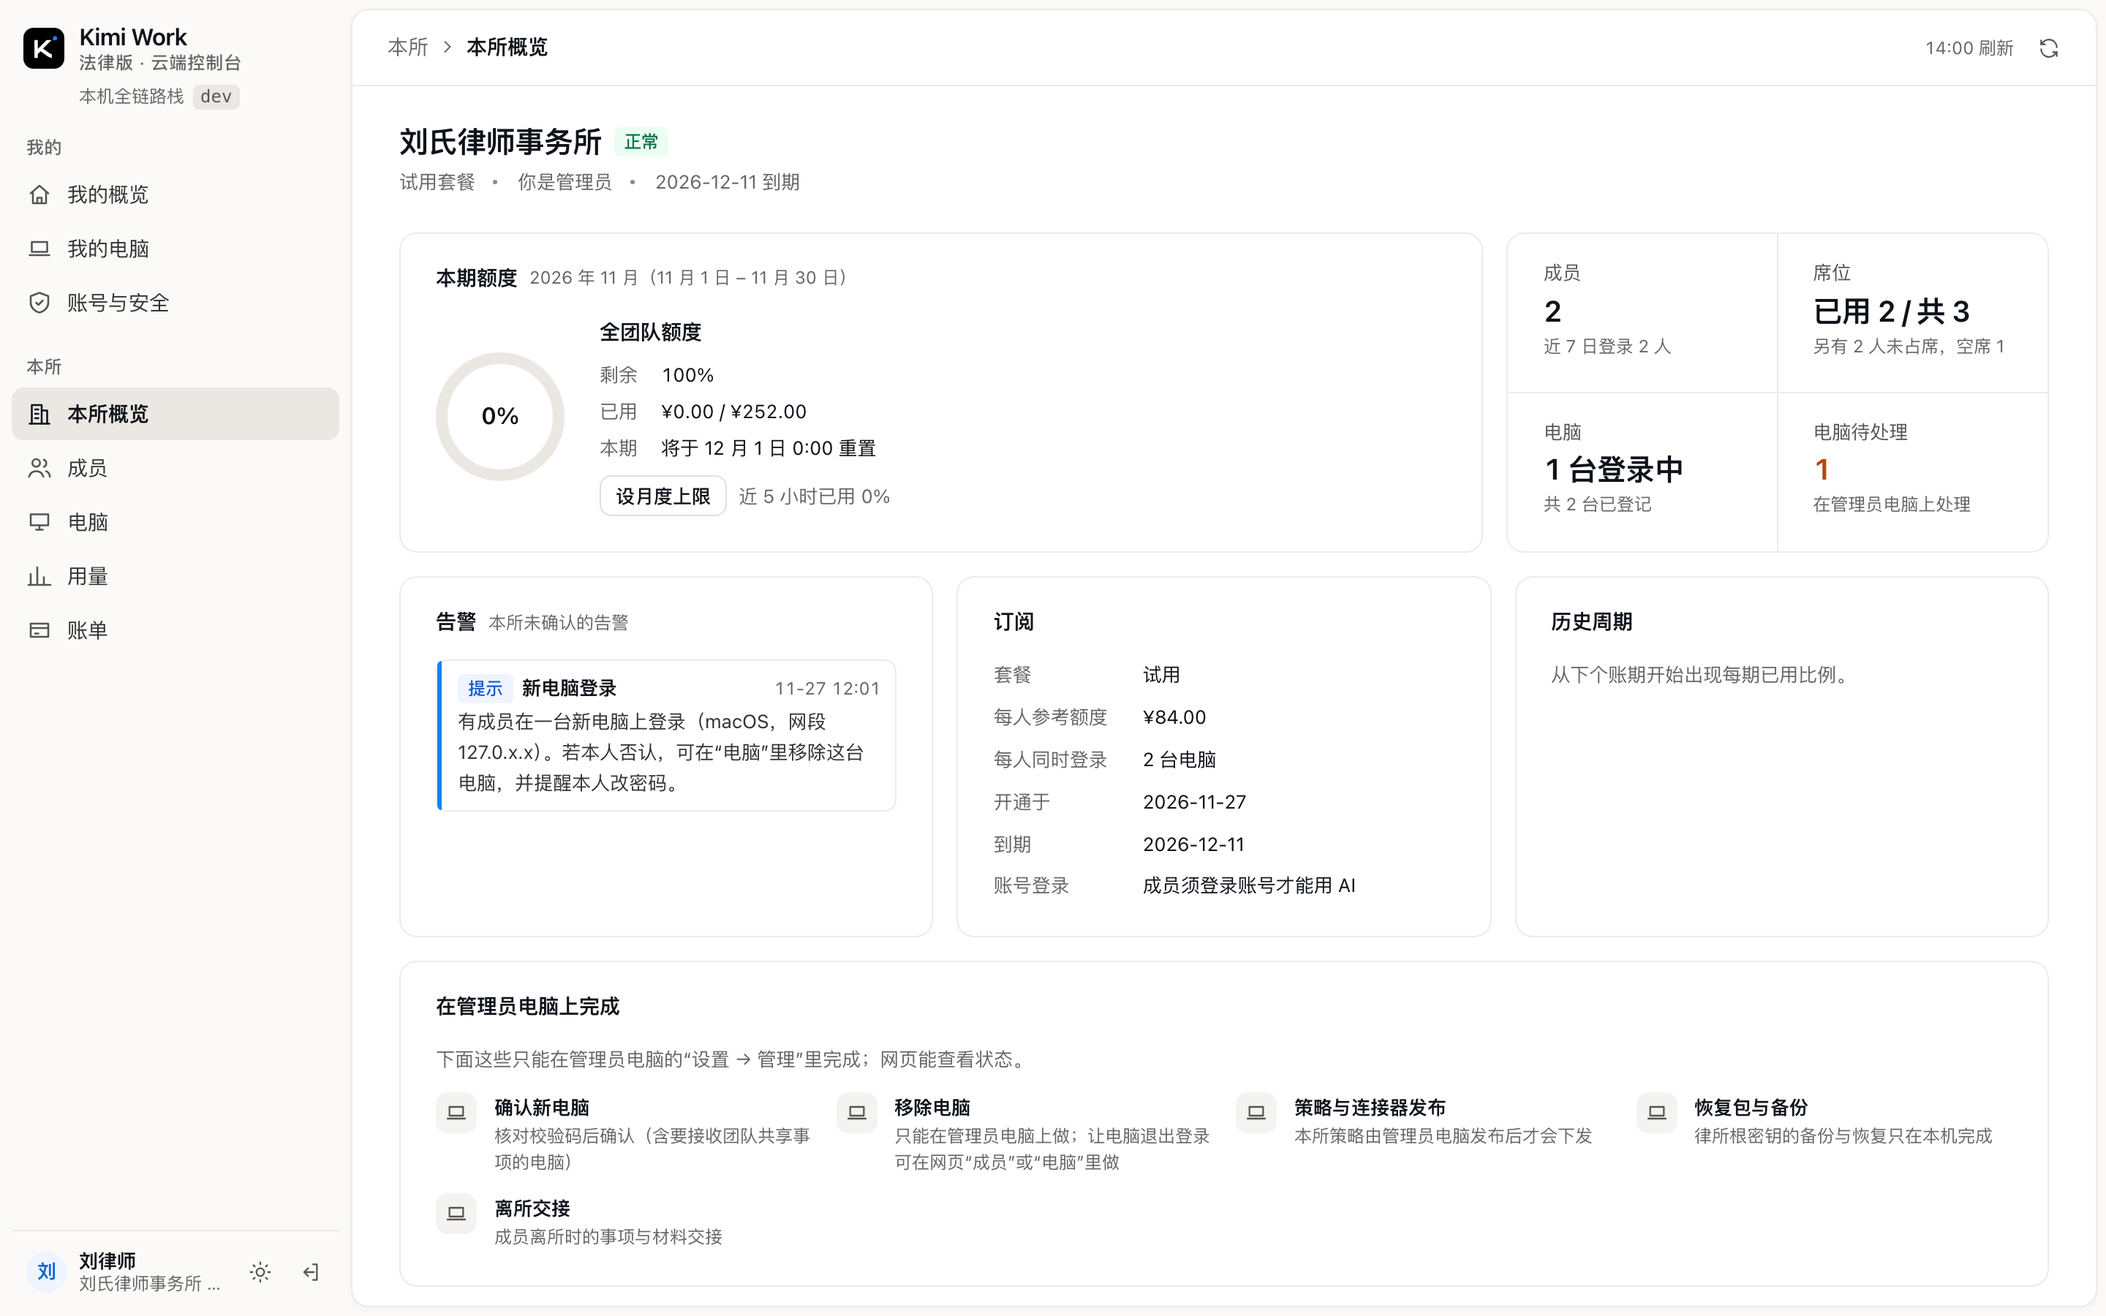
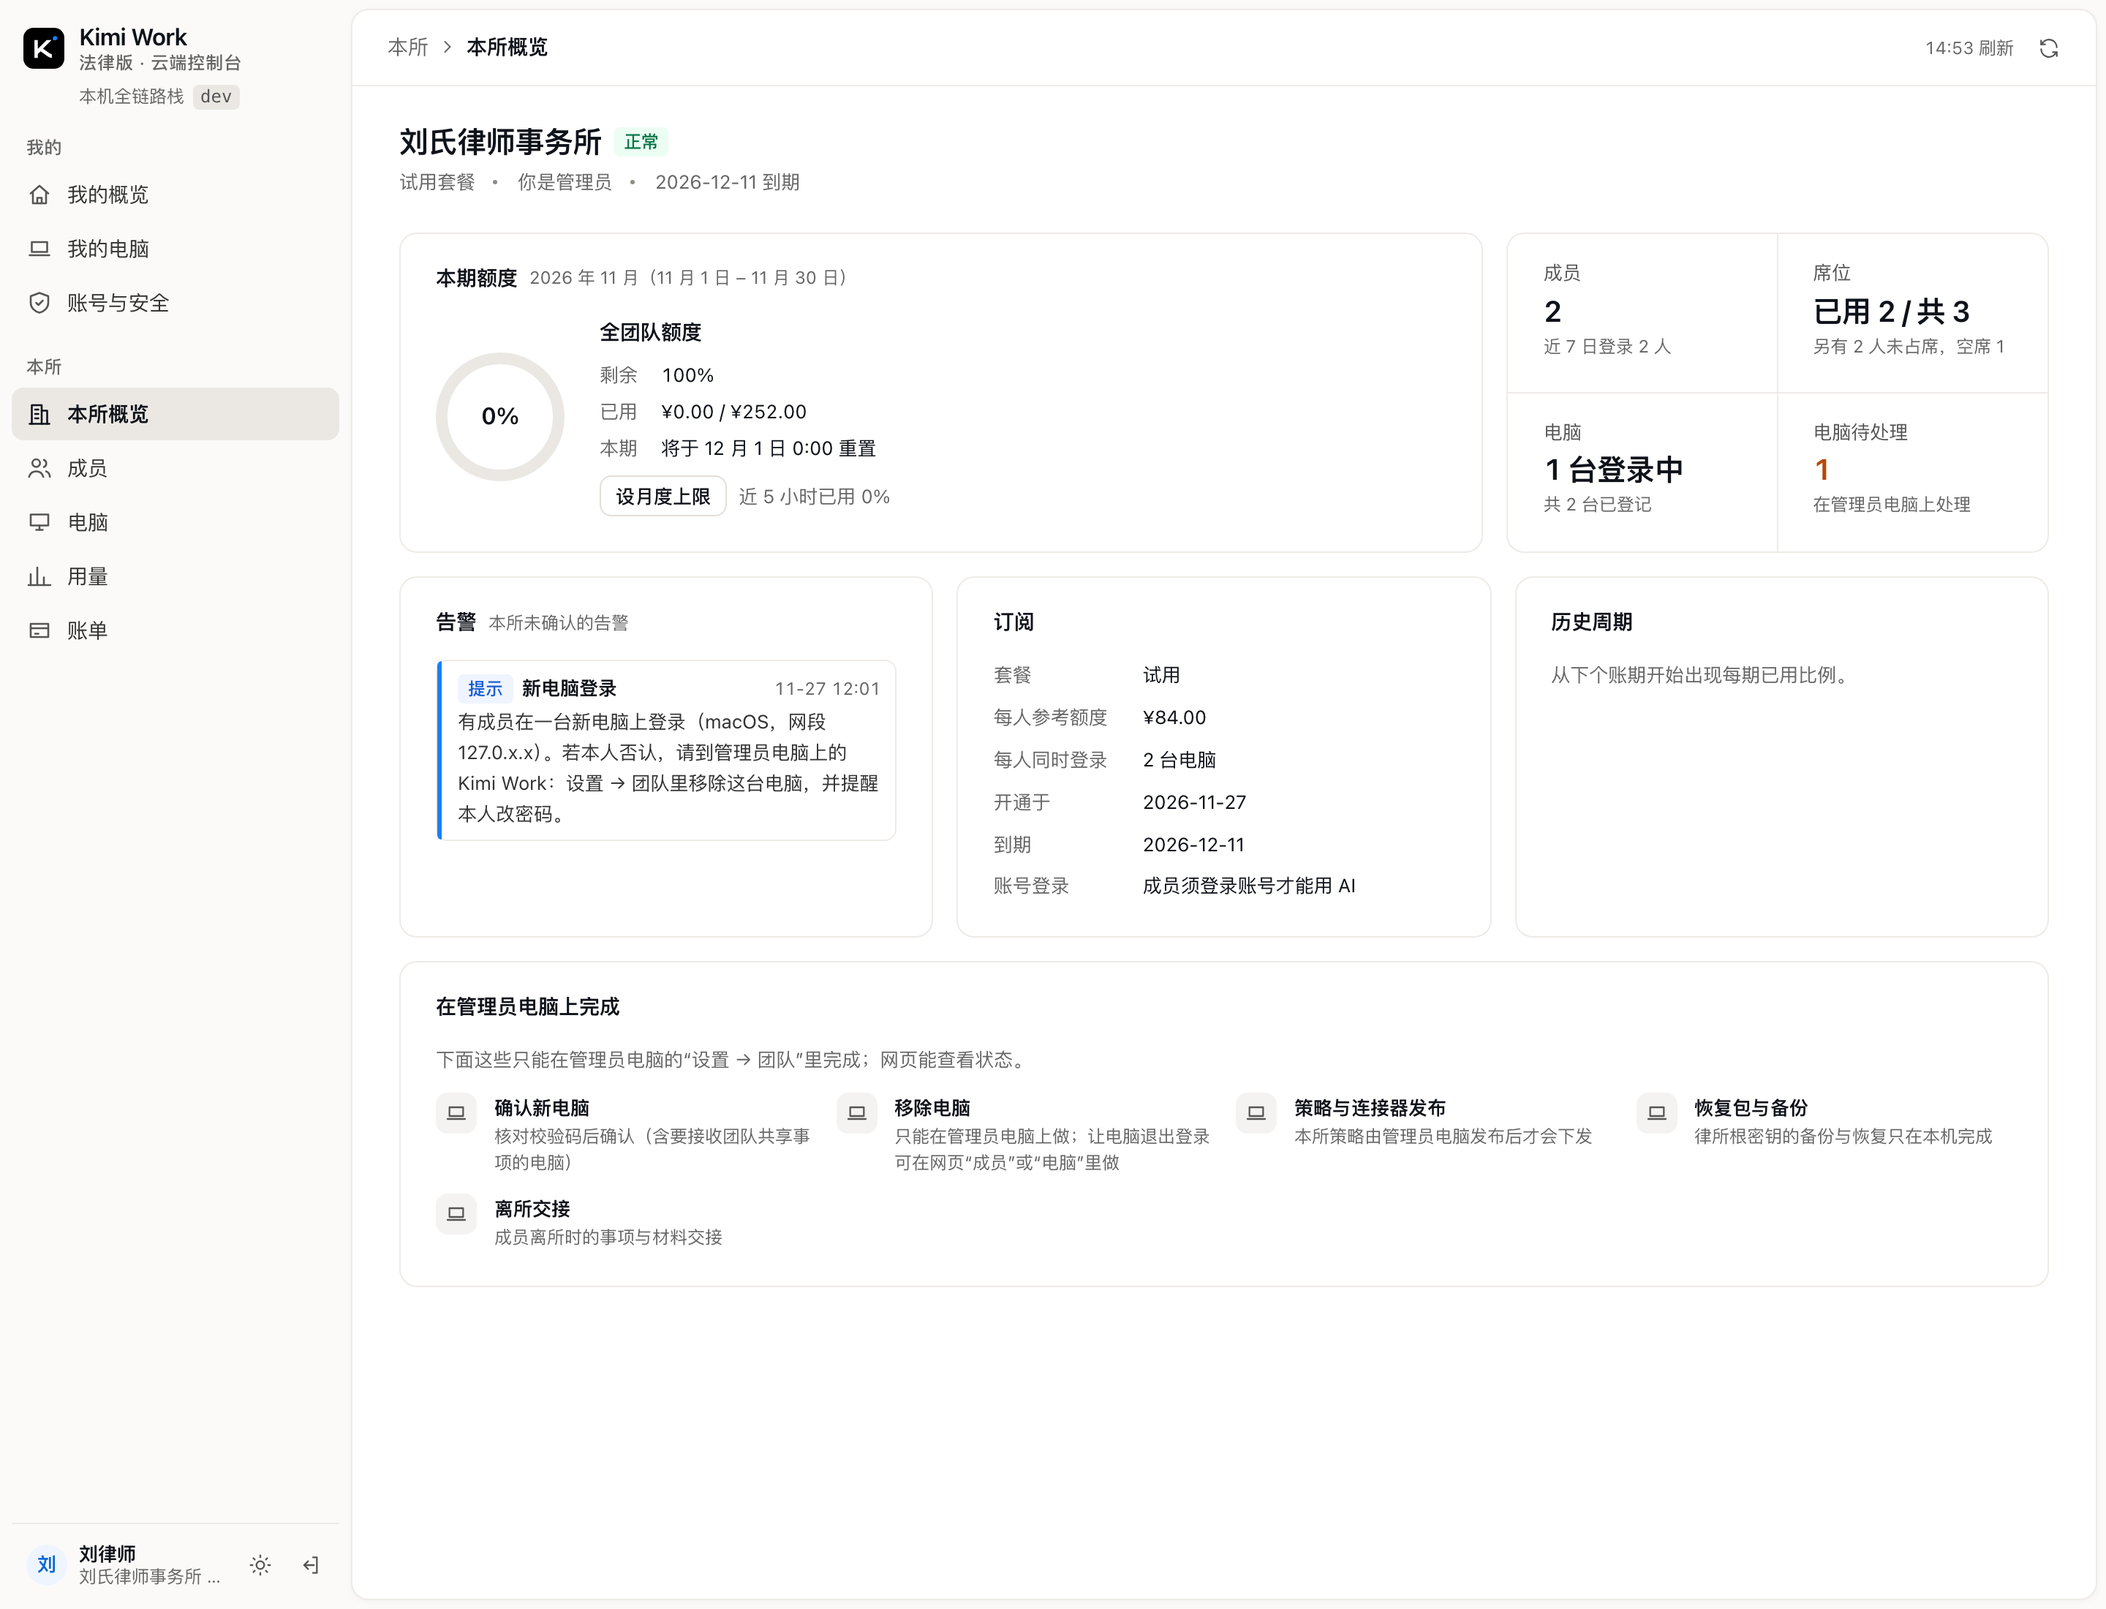
fix(console): 第 72 批控制台第三轮复评后两处口径——桌面端路径统一为“设置 → 团队（→ 电脑待确认）”；团队管理员视角的新电脑告警写明到管理员电脑上移除；重拍 03、13、21、22、45 浅深两套

diff --git a/platform/apps/console/pages/firm-overview.js b/platform/apps/console/pages/firm-overview.js
@@ -39,7 +39,7 @@ function draw(head, box, d, reload) {
       lead: h("p", {}, "全所本期用量到这个比例后暂停调用 AI（本机流程不受影响），下一期自动恢复。"),
       fields: [{ name: "pct", label: "上限（占本期总额度的 %）", type: "number", min: 1, max: 100, value: capPct ?? "", hint: "1–100；留空 = 不设上限" }],
       validate: (v) => (v.pct !== null && !(Number.isInteger(v.pct) && v.pct >= 1 && v.pct <= 100) ? "请填 1–100 的整数，或留空" : null),
-      consequences: ["立即生效：当前已用超过新上限时，全所马上暂停调用 AI；", "客户端“设置 → 管理”里的月度上限是同一个值，会同步改变。"],
+      consequences: ["立即生效：当前已用超过新上限时，全所马上暂停调用 AI；", "客户端“设置 → 团队”里的月度上限是同一个值，会同步改变。"],
       confirmLabel: "保存上限",
       run: (v) => api.put("/v1/firm/cap", { monthly_cap_pct: v.pct ?? null }),
     });
@@ -55,7 +55,7 @@ function draw(head, box, d, reload) {
     clear(todoSub, n > 0 ? "在管理员电脑上处理" : "没有待处理的电脑");
     if (n > 0) todoStat.classList.add("tone-warn");
   }, () => {});
-  const joinBanner = h("div", { class: "banner warn soft" }, icon("info"), h("span", { class: "spacer" }, `有 ${pending} 台新电脑等你批准：请在管理员电脑的“设置 → 管理”里核对校验码与本人一致后再批准。`), btn("查看成员", () => go("firm/members"), { size: "sm" }));
+  const joinBanner = h("div", { class: "banner warn soft" }, icon("info"), h("span", { class: "spacer" }, `有 ${pending} 台新电脑等你批准：请在管理员电脑的“设置 → 团队 → 电脑待确认”里核对校验码与本人一致后再批准。`), btn("查看成员", () => go("firm/members"), { size: "sm" }));
   const seatSub = h("span", {}, "能用 AI 的名额");
   // 评审第二轮（K14）：成员数与 7 日活跃只算当前有效成员（已移出 / 停用的不算），拿到成员清单后改写
   const memVal = h("span", {}, fmt.int(c.members));
@@ -69,7 +69,7 @@ function draw(head, box, d, reload) {
     const since = Date.now() - 7 * 86_400_000;
     clear(memVal, fmt.int(act.length));
     clear(memSub, `近 7 日登录 ${fmt.int(act.filter((x) => x.last_login_at && Date.parse(x.last_login_at) >= since).length)} 人`);
-    if (p.length) clear(joinBanner.querySelector(".spacer"), p.map((x, i) => [i ? "、" : null, h("b", {}, `${x.member_name ?? "成员"}的新电脑`), `（申请于 ${fmt.time(x.created_at)}）`]), "等你批准：请在管理员电脑的“设置 → 管理”里核对校验码与本人一致后再批准。");
+    if (p.length) clear(joinBanner.querySelector(".spacer"), p.map((x, i) => [i ? "、" : null, h("b", {}, `${x.member_name ?? "成员"}的新电脑`), `（申请于 ${fmt.time(x.created_at)}）`]), "等你批准：请在管理员电脑的“设置 → 团队 → 电脑待确认”里核对校验码与本人一致后再批准。");
     const n = (m.members ?? []).filter((x) => x.seat_used === false).length;
     const sn = seatNote(n, seats.total, seats.used);
     // 评审（K14 第 3 条）：席位格说明缩成一行，细节放悬停
@@ -127,6 +127,6 @@ function draw(head, box, d, reload) {
       ),
       (q.history ?? []).length ? panel("历史周期", periodBars(q.history ?? []), { sub: "每期已用比例" }) : panel("历史周期", h("p", { class: "muted small" }, "从下个账期开始出现每期已用比例。")),
     ].filter(Boolean)),
-    panel("在管理员电脑上完成", h("div", { class: "stack-sm" }, h("p", { class: "muted small" }, "下面这些只能在管理员电脑的“设置 → 管理”里完成；网页能查看状态。"), clientOnlyList(CLIENT_ONLY), pending > 0 ? btn(`查看待批准的 ${pending} 个申请`, () => go("firm/members"), { size: "sm" }) : null)),
+    panel("在管理员电脑上完成", h("div", { class: "stack-sm" }, h("p", { class: "muted small" }, "下面这些只能在管理员电脑的“设置 → 团队”里完成；网页能查看状态。"), clientOnlyList(CLIENT_ONLY), pending > 0 ? btn(`查看待批准的 ${pending} 个申请`, () => go("firm/members"), { size: "sm" }) : null)),
   );
 }

diff --git a/platform/apps/console/pages/firm-members.js b/platform/apps/console/pages/firm-members.js
@@ -57,7 +57,7 @@ export function render(page) {
     clear(box);
     if (pending.length)
       box.append(
-        h("div", { class: "banner warn soft" }, icon("info"), h("span", { class: "spacer" }, pending.map((p, i) => [i ? "、" : null, h("b", {}, `${p.member_name ?? "成员"}的新电脑`), `（申请于 ${fmt.time(p.created_at)}）`]), "等你确认：请在管理员电脑的“设置 → 管理”里核对校验码与本人一致后再批准。")),
+        h("div", { class: "banner warn soft" }, icon("info"), h("span", { class: "spacer" }, pending.map((p, i) => [i ? "、" : null, h("b", {}, `${p.member_name ?? "成员"}的新电脑`), `（申请于 ${fmt.time(p.created_at)}）`]), "等你确认：请在管理员电脑的“设置 → 团队 → 电脑待确认”里核对校验码与本人一致后再批准。")),
       );
     const rows = members.filter((m) => f(m) && matches(st.q, m.name, m.email, m.person_phone_masked, m.member_slug, roleText(m.role)));
     box.append(
@@ -122,7 +122,7 @@ function policyPanel() {
       danger: next === "approve",
       consequences:
         next === "approve"
-          ? ["新成员、换电脑的成员：新电脑要等你在管理员电脑“设置 → 管理”里核对校验码并确认后才能登录；", "确认之前，他们在那台新电脑上用不了 AI，也处理不了事项（已登录的电脑不受影响）；", "你不在时没人能确认：请确保至少有一位管理员能及时处理。"]
+          ? ["新成员、换电脑的成员：新电脑要等你在管理员电脑“设置 → 团队 → 电脑待确认”里核对校验码并确认后才能登录；", "确认之前，他们在那台新电脑上用不了 AI，也处理不了事项（已登录的电脑不受影响）；", "你不在时没人能确认：请确保至少有一位管理员能及时处理。"]
           : ["成员的新电脑直接登录，能用 AI、处理自己的事项；", "要接收团队共享事项前，那台电脑仍须你在管理员电脑上确认（共享事项的密钥只给确认过的电脑）；", "正在等确认的新电脑不会自动通过：请在管理员电脑上处理。"],
       confirmLabel: "保存",
       run: () => api.put("/v1/firm/policy/member-device", { policy: next }),
@@ -312,7 +312,7 @@ function openMember(m, pending, reload) {
             { key: "version", label: "客户端", render: (d) => (d.pending ? "—" : d.version && d.version !== "legacy" ? mono(d.version) : h("span", { class: "muted" }, versionText(d.version))) },
             { key: "last_seen_at", label: "最近在线", render: (d) => (d.pending ? "—" : d.last_seen_at ? fmt.ago(d.last_seen_at) : "从未在线") },
             { key: "state", label: "状态", value: (d) => ({ pending: 0, signed_in: 1, signed_out: 2, revoked: 3 })[d.state ?? (d.revoked ? "revoked" : "signed_out")], render: (d) => deviceStateCell(d) },
-            { key: "_act", label: "", sortable: false, class: "act", render: (d) => (d.pending ? null : rowMenu([d.state === "signed_in" ? { label: "让它退出登录…", onClick: () => signoutOne(d), disabled: ro, title: ro ? "只有团队管理员能操作" : undefined } : null, d.state === "revoked" ? null : { label: "移除（在管理员电脑上完成）", disabled: true, title: "移除只能在管理员电脑的“设置 → 管理”里完成" }])) },
+            { key: "_act", label: "", sortable: false, class: "act", render: (d) => (d.pending ? null : rowMenu([d.state === "signed_in" ? { label: "让它退出登录…", onClick: () => signoutOne(d), disabled: ro, title: ro ? "只有团队管理员能操作" : undefined } : null, d.state === "revoked" ? null : { label: "移除（在管理员电脑上完成）", disabled: true, title: "移除只能在管理员电脑的“设置 → 团队”里完成" }])) },
           ],
         }),
         { flush: true, sub: "让电脑退出登录可在这里做；移除与确认新电脑在管理员电脑上完成" },

diff --git a/platform/apps/console/domain.js b/platform/apps/console/domain.js
@@ -79,7 +79,7 @@ export const CREATED_VIA = { self: "自助注册", founder_code: "开通码", in
  * 电脑的异常标记（第 71 批，B-6 / P-09）：运营侧与本所侧同一口径与说法——
  *   30 天未报到；低于最低版本（云端设置的 min_version）；未登录（账号闸开着且这台电脑没有有效登录：只是暂停，不是“仍有请求”，中性色）。
  */
-/** 第 72 批评审（K5/K10/K13）：巡检标记改中性色——警示色只留给要人处理的行（待管理员确认） */
+/** 第 72 批评审（K5/K10/K13）：巡检标记改中性色——警示色只留给要人处理的行（待确认共享） */
 export const FIRM_DEVICE_FLAG = { stale_30d: ["30 天没在线", "neutral"], old_client: ["低于最低版本", "neutral"], rejected_after_logout: ["未登录", "neutral"] };
 export const DEVICE_FLAG = { stale: ["30 天没在线", "neutral"], outdated: ["低于最低版本", "neutral"], suspended: ["未登录", "neutral"] };
 /** 没上报版本时不断言“低于最低版本”，写“版本未知”（客户端列已写“未上报版本”） */
@@ -194,7 +194,9 @@ export function alertList(alerts, { onAck, compact } = {}) {
       // 第 72 批评审（跨页 7）：新电脑登录告警的正文是写给律师本人的，运营 / 管理员看到的改成第三人称与可做的事（原文放悬停）
       const ip = a.kind === "new_device" ? /（[^（）]*）/.exec(String(a.message ?? ""))?.[0] ?? "" : "";
       const person = a.member_name ?? a.email ?? null;
-      const msg = a.kind === "new_device" ? `${person ? `${person}${/[A-Za-z0-9]$/.test(person) ? " " : ""}在` : "有成员在"}一台新电脑上登录${ip}。若本人否认，可在“电脑”里移除这台电脑，并提醒本人改密码。` : a.message ?? "";
+      // 评审第三轮：团队管理员（成员账号）在网页上不能移除电脑，指到管理员电脑；运营可在“电脑”里直接移除
+      const fix = ctx.kind === "member" ? "请到管理员电脑上的 Kimi Work：设置 → 团队里移除这台电脑，并提醒本人改密码。" : "可在“电脑”里移除这台电脑，并提醒本人改密码。";
+      const msg = a.kind === "new_device" ? `${person ? `${person}${/[A-Za-z0-9]$/.test(person) ? " " : ""}在` : "有成员在"}一台新电脑上登录${ip}。若本人否认，${fix}` : a.message ?? "";
       return h(
         "li",
         { class: `alert lv-${tone}` },
@@ -297,7 +299,7 @@ export const unconfirmed = (d) => d?.issuer === "account_ca" && !d?.pending && d
 /** 工作空间的叫法：个人空间一律叫“个人空间”（不再写“某某的工作室”）；类型取 d.kind / 客户列表缓存的 kind，旧数据按名称近似 */
 export const wsKindOfTid = (tid, name) => ctx.tenants?.find((t) => t.tid === tid)?.kind ?? (/的工作室$/.test(String(name ?? "")) ? "personal" : "team");
 export const wsNameOf = (d) => ((d?.kind ?? wsKindOfTid(d?.tid, d?.tenant_name)) === "personal" ? "个人空间" : d?.tenant_name ?? d?.tid);
-/** 待管理员确认（D-304）：状态格两行——主状态 + 灰字说明与下一步 */
+/** 待确认共享（D-304）：状态格两行——主状态 + 灰字说明与下一步 */
 export const confirmCell = (d, hint) => h("span", { class: "cell-2" }, stateCell("待确认共享", "warn", CONFIRM_TIP), h("small", {}, hint ?? "确认后才能接收团队共享事项"));
 export function deviceTable(rows, { state, after, showTenant = true, showMember = true, empty, onRow, memberLabel = "成员", team = false, confirmHint } = {}) {
   const isTeam = typeof team === "function" ? team : () => !!team;

diff --git a/platform/apps/console/pages/firm-devices.js b/platform/apps/console/pages/firm-devices.js
@@ -87,7 +87,7 @@ export function render(page) {
                   : rowMenu([
                       unconfirmed(d) ? { label: "在管理员电脑上确认（接收团队共享事项）", disabled: true, title: CONFIRM_TIP } : null,
                       deviceState(d) === "signed_in" ? { label: "让它退出登录…", onClick: () => signout(d, reload), disabled: readOnly() || !d.aid, title: readOnly() ? "只有本所管理员能操作" : undefined } : null,
-                      { label: "移除（在管理员电脑上完成）", disabled: true, title: "移除只能在管理员电脑的“设置 → 管理”里完成" },
+                      { label: "移除（在管理员电脑上完成）", disabled: true, title: "移除只能在管理员电脑的“设置 → 团队”里完成" },
                     ], { aria: `操作：${d.name || d.member || d.device_id}` }),
           },
         ].filter(Boolean),

diff --git a/research/2026-11-27-V46-双端统一团队体系与控制台重构/impl-W-控制台进度.md b/research/2026-11-27-V46-双端统一团队体系与控制台重构/impl-W-控制台进度.md
@@ -53,3 +53,7 @@
   - D8：电脑派生名补“第 N 台”（设备编号末尾 _D<n>，没有则第 1 台；起了名的不改，待批准的新电脑不改），如“孙二青的 Mac · 第 2 台”，与律师端选择页口径一致。
   - 用例：console-render 断言改为“待确认共享”与新路径、派生名带“第 1 台”；console-ui 新增 1 条（第 N 台），console-ui 14/14、console-render 2/2、其余 23/23；console-dist 已重打。
   - 重拍（浅 / 深，覆盖）：05 组织详情电脑、12 电脑全部、13 用户详情（按工作空间分组的电脑）、21 本所电脑、24 我的电脑。
+- 第三轮复评（12c，20 页全过）后两处“说法与事实不符”：
+  - 桌面端路径只留一种叫法：apps/console 里“设置 → 管理”全部统一——核对校验码 / 确认新电脑的语境改“设置 → 团队 → 电脑待确认”（本所成员页待批准横幅、成员新电脑“须确认”后果、本所概览待批准横幅），其余（移除电脑、月度上限、“在管理员电脑上完成”清单）改“设置 → 团队”；全库已无“设置 → 管理”“待管理员确认”。
+  - 新电脑登录告警：团队管理员（成员账号）视角改为“请到管理员电脑上的 Kimi Work：设置 → 团队里移除这台电脑，并提醒本人改密码”；运营视角不变（“可在‘电脑’里移除”）。
+  - 用例 console-ui 14/14、console-render 2/2、其余 23/23；console-dist 已重打；重拍 03、13、21、22、45 浅 / 深（45 已是“待确认共享”）。
